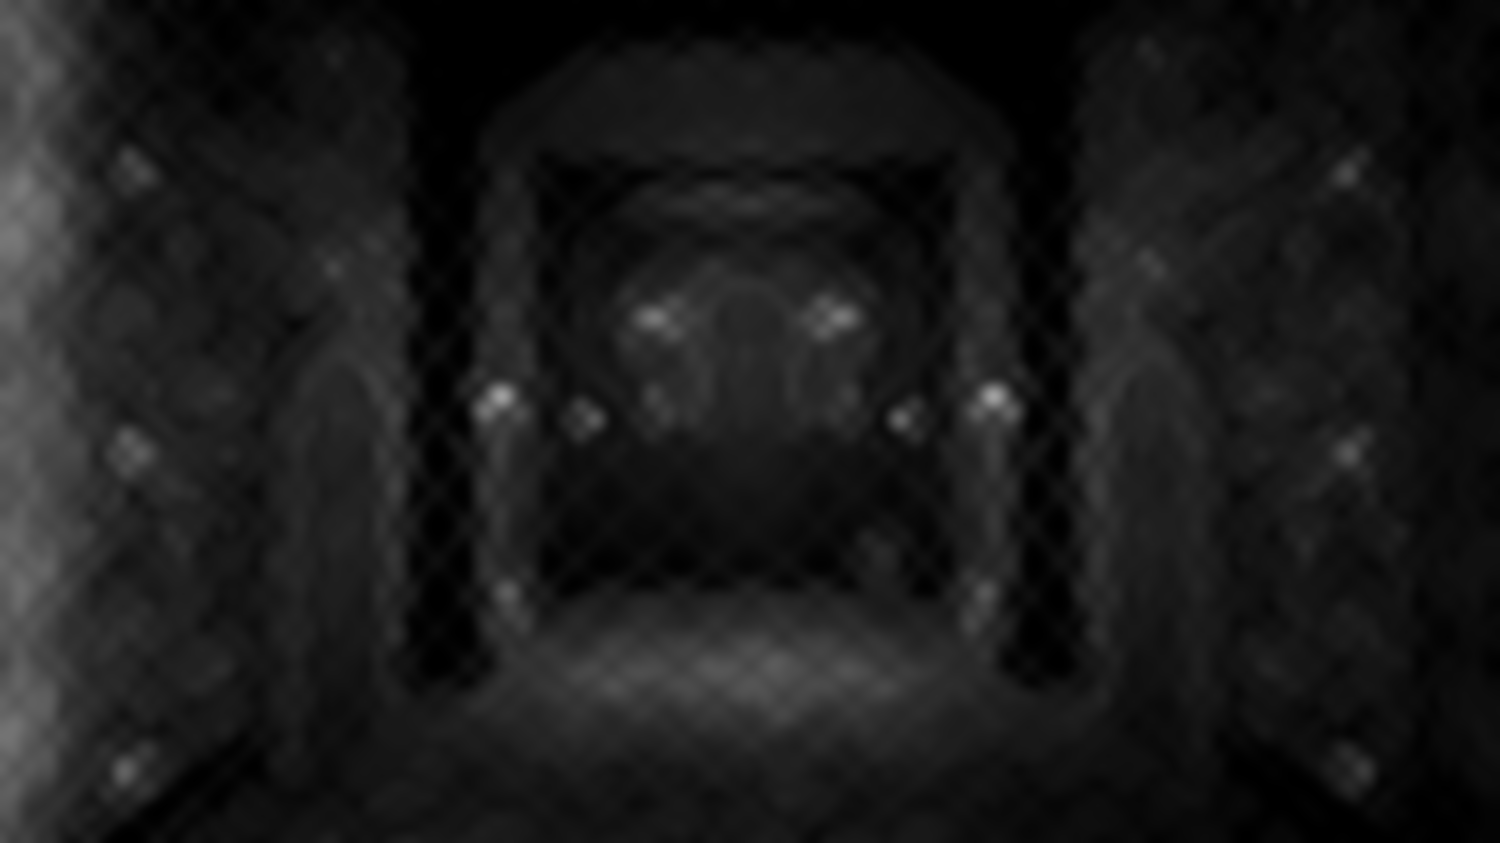
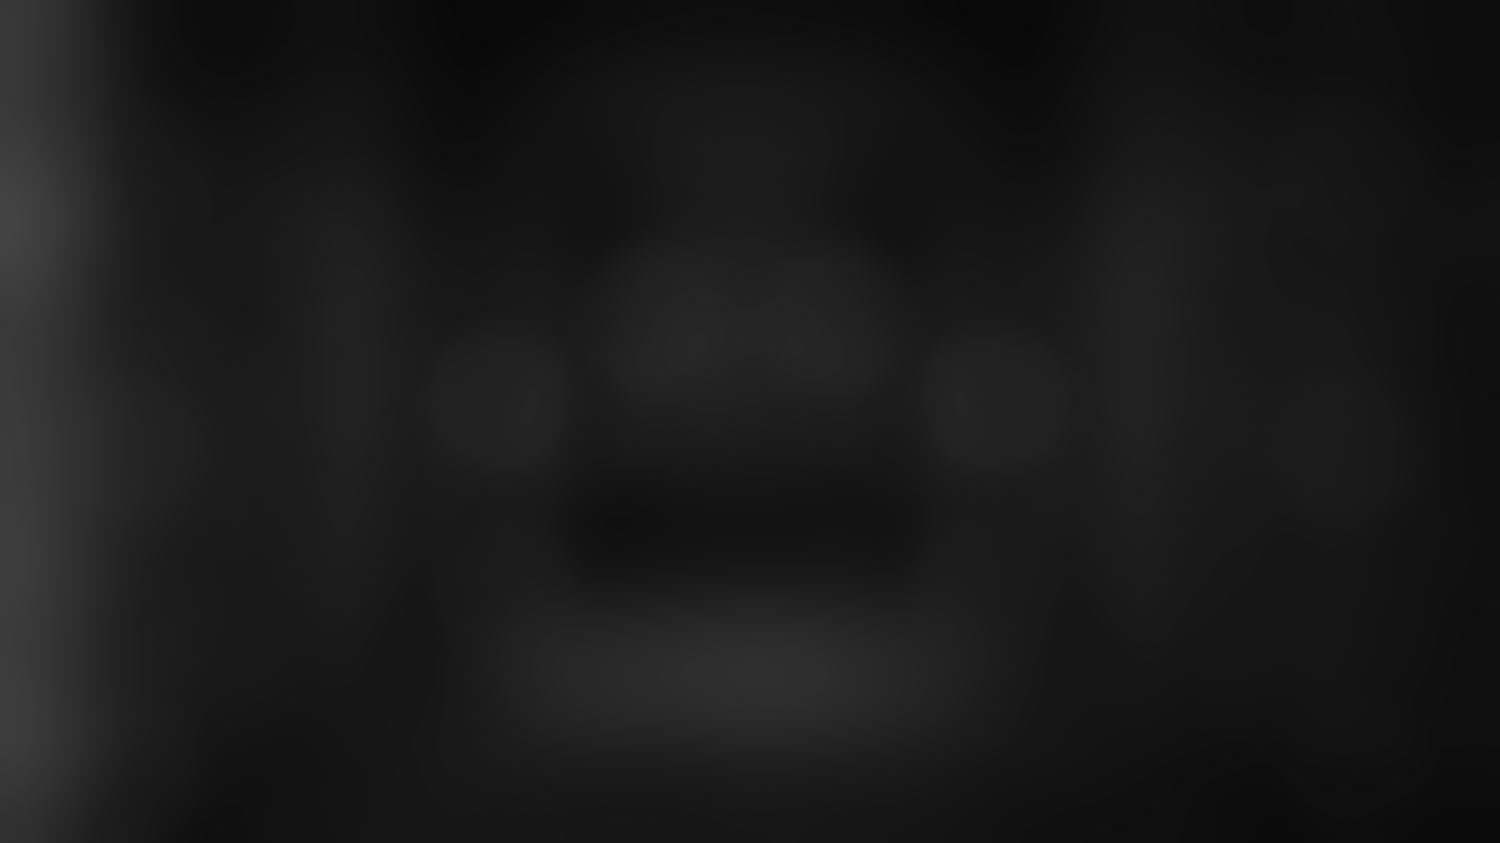
improve background image system

diff --git a/scenes.js b/scenes.js
@@ -4,7 +4,10 @@ var gat_n = 'image/character/gatsby_neutral.png'
 var gat_s = 'image/character/gatsby_sad.png'
 var tom_n = 'image/character/tom_neutral.png'
 
-var hall = 'hall.png'
+var hall_old = 'hall.png'
+var hall = 'hall_new.png'
+var path = 'path.png'
+var party= 'party.png'
 
 
 //scene setter
@@ -18,30 +21,33 @@ function setScene(sceneNum) {
         scene(sceneNum, gat_n, placeholder, hall, 
         '["Nervously, you greet the Buchanans, welcoming them to the party."]', null, 'Continue talking with Daisy', 'Look at Daisy, but contain your urge to talk with her', null);
     } else if (sceneNum==3) {
-        scene(sceneNum, placeholder, gat_h, hall, '["What a lively party you have!"]', 'Daisy', 'Agree apathetically and ask her to dance', null, null);
+        scene(sceneNum, placeholder, gat_h, party, 
+            '["What a lively party you have!"]', 'Daisy', 'Agree apathetically and ask her to dance', null, null);
     } else if (sceneNum==4) {
-        scene(sceneNum, placeholder, gat_h, hall, '["Yes I would love to, if you\'ll have me."]', 'Daisy', 'Next', null, null);
+        scene(sceneNum, placeholder, gat_h, party, 
+            '["Yes I would love to, if you\'ll have me."]', 'Daisy', 'Next', null, null);
     } else if (sceneNum==5) {
-        scene(sceneNum, placeholder, gat_h, hall, '["As you Dance, you notice a pair of eyes glaring suspiciously at you and Daisy."]', null, 'next', null, null);
+        scene(sceneNum, placeholder, gat_h, party, 
+            '["As you Dance, you notice a pair of eyes glaring suspiciously at you and Daisy."]', null, 'next', null, null);
     } else if (sceneNum==6) { //Path 2 Part 1
-        scene(sceneNum, placeholder, gat_n, hall, 
+        scene(sceneNum, placeholder, gat_n, party, 
             '["You stare at Daisy, in awe of her beautiful dress. Tom notices you staring at his wife."]', null, 'Confront Tom, asking him to express his thoughts', 'Ignore Tom, leading Daisy into the Party', null);
     } else if (sceneNum==7) {
-        scene(sceneNum, tom_n, gat_n, hall, 
+        scene(sceneNum, tom_n, gat_n, party, 
             '["Mind your own business, bootlegger. I don\'t want some lawbreaker messing around in my personal life, and neither does Daisy!"]', 'Tom', 'Introduce Tom to the partygoers as a Polo Player', null, null);
     } else if (sceneNum==8) {
-        scene(sceneNum, gat_h, placeholder, hall, 
+        scene(sceneNum, gat_h, placeholder, party, 
             '["As Tom “The Polo Player” awkwardly mingles with party-goers, Daisy starts talking you up."]', null, 'Ask Daisy to dance with you.', 'Wait for Daisy to get comfortable before inviting her to dance', 'Continue to chat with Daisy');
     } else if (sceneNum==9) {
-        scene(sceneNum, gat_h, null, hall, '["You Continue to keep Daisy company, but you notice that Daisy is growing disinterested and wearisome of the party."]', null, 'Ask Daisy to dance with you.', null, null);
+        scene(sceneNum, gat_h, null, party, '["You Continue to keep Daisy company, but you notice that Daisy is growing disinterested and wearisome of the party."]', null, 'Ask Daisy to dance with you.', null, null);
     } else if (sceneNum==10) {
-        scene(sceneNum, gat_h, placeholder, hall, 
+        scene(sceneNum, gat_h, placeholder, party, 
             '["Well...alright then Jay. It has been awhile, but I\'d love a spin around the dance floor."]', 'Daisy', 'Dance Gracefully with Daisy', null, null);
     } else if (sceneNum==11) {
-        scene(sceneNum, tom_n, null, hall, 
+        scene(sceneNum, tom_n, null, party, 
             '["Tom, suspicous of your relationship with Daisy, follows you in."]', null, 'Introduce Tom as a Polo Player', null, null);
     } else if (sceneNum==12) { // Part 1 conclusion
-        scene(sceneNum, placeholder, gat_h, hall, 
+        scene(sceneNum, placeholder, gat_h, path, 
             '["At the end of the Party, Tom is visibly flustered as the Buchanans are escorted by your neighbor and friend Nick to their waiting limousine."]', null, 'Approach Nick when he is alone', 'Stay where you are, waving goodbye to departing partygoers.', null);
     }
 }

diff --git a/styles.css b/styles.css
@@ -179,5 +179,10 @@ label {
 }
 
 body {
+  height: 100vh;
+  width: 100vw;
   transition: all .5s ease-in-out;
+  background-repeat: no-repeat;
+  background-position: center;
+  background-size: cover;
 }
